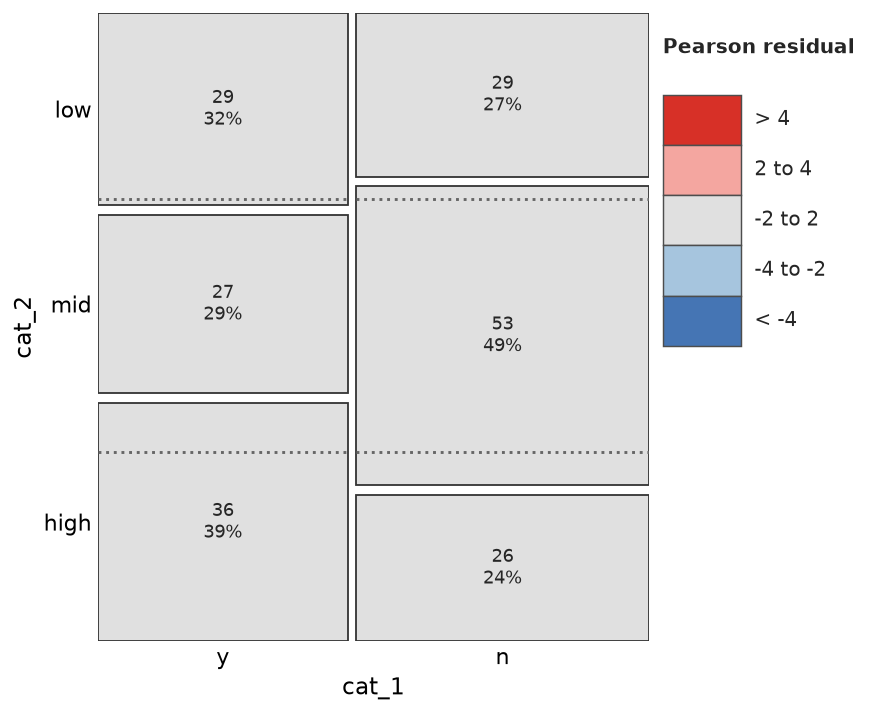
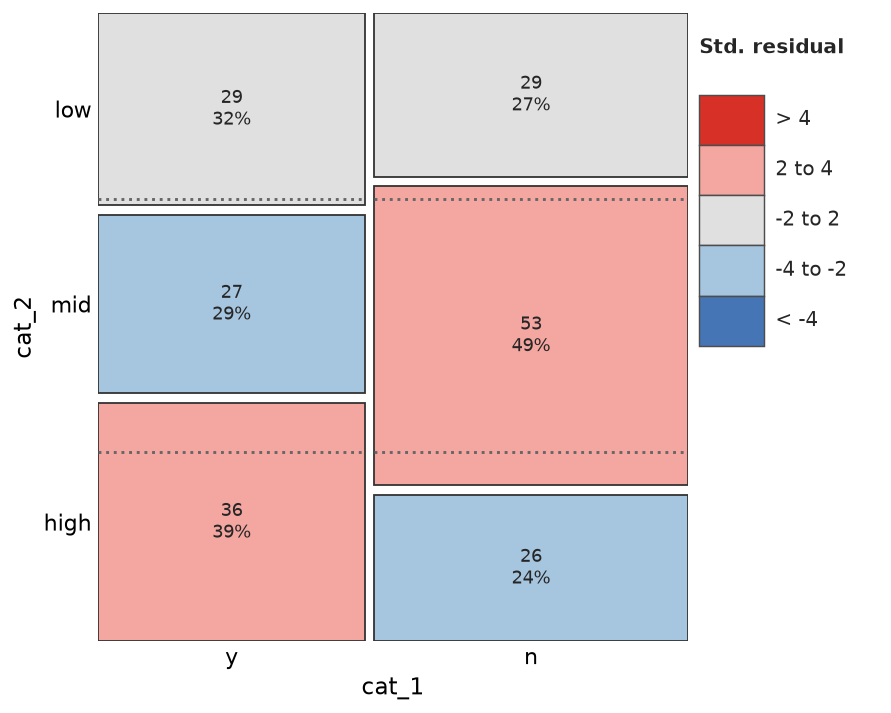
Shade the README mosaic by the standardized residual the cell table reports.
The default shading stays Pearson, which is what R uses and what squares to the test statistic. The README cell reading is `std_residual`, so the example asks for that residual and the figure is redrawn on it: high and mid leave the grey band, low does not.

diff --git a/tests/test_readme_smoke.py b/tests/test_readme_smoke.py
@@ -194,7 +194,7 @@ class TestPartOne:
         by_cell = sa.estimate_categorical_significance(cat, by="cell")
         assert {"row_level", "col_level", "lift", "is_signif"} <= set(by_cell.significance.columns)
         sa.estimate_categorical_significance(cat, by="table", test="chisq_test")
-        sa.draw_mosaic_plot(cat)
+        sa.draw_mosaic_plot(cat, residual="standardized")
 
     def test_association_returns_one_square_matrix_set_per_method(self):
         cor_mat = sa.make_block_cor(

diff --git a/tools/make_readme_figures.py b/tools/make_readme_figures.py
@@ -373,7 +373,7 @@ def categorical_groups(fig_dir: Path, notes: Notes) -> None:
     notes.show("s09 sig_table", sig_table)
 
     figure(7.0, 6.0)
-    sa.draw_mosaic_plot(cat)
+    sa.draw_mosaic_plot(cat, residual="standardized")
     save(fig_dir, "mosaic")
 
 

diff --git a/README.md b/README.md
@@ -660,13 +660,13 @@ sa.estimate_categorical_significance(cat, by="table", test="chisq_test")
   verdict  : cramers_v = 0.21  (significant)
 ```
 
-`draw_mosaic_plot()` shades each tile by the residual under the same null, and draws the expected conditional proportion as a dashed line inside each strip so the eye reads distance from the null rather than distance from the neighbouring strip:
+`draw_mosaic_plot()` shades each tile by the residual under the same null, and draws the expected conditional proportion as a dashed line inside each strip so the eye reads distance from the null rather than distance from the neighbouring strip. The default shading is the Pearson residual, which squares and sums to the test statistic. The cell reading above used `std_residual` instead — the same axis referred to a standard normal — so the figure asks for that one:
 
 ```python
-sa.draw_mosaic_plot(cat)
+sa.draw_mosaic_plot(cat, residual="standardized")
 ```
 
-![Mosaic plot shaded by Pearson residuals under independence](https://raw.githubusercontent.com/hiows/STATassist-py/master/docs/figures/README-mosaic.png)
+![Mosaic plot shaded by standardized residuals under independence](https://raw.githubusercontent.com/hiows/STATassist-py/master/docs/figures/README-mosaic.png)
 
 Repeated binary conditions swap the null and the tests: `paired=True` reads McNemar for two conditions and Cochran's Q for more, and `design["null"]` says so.
 
